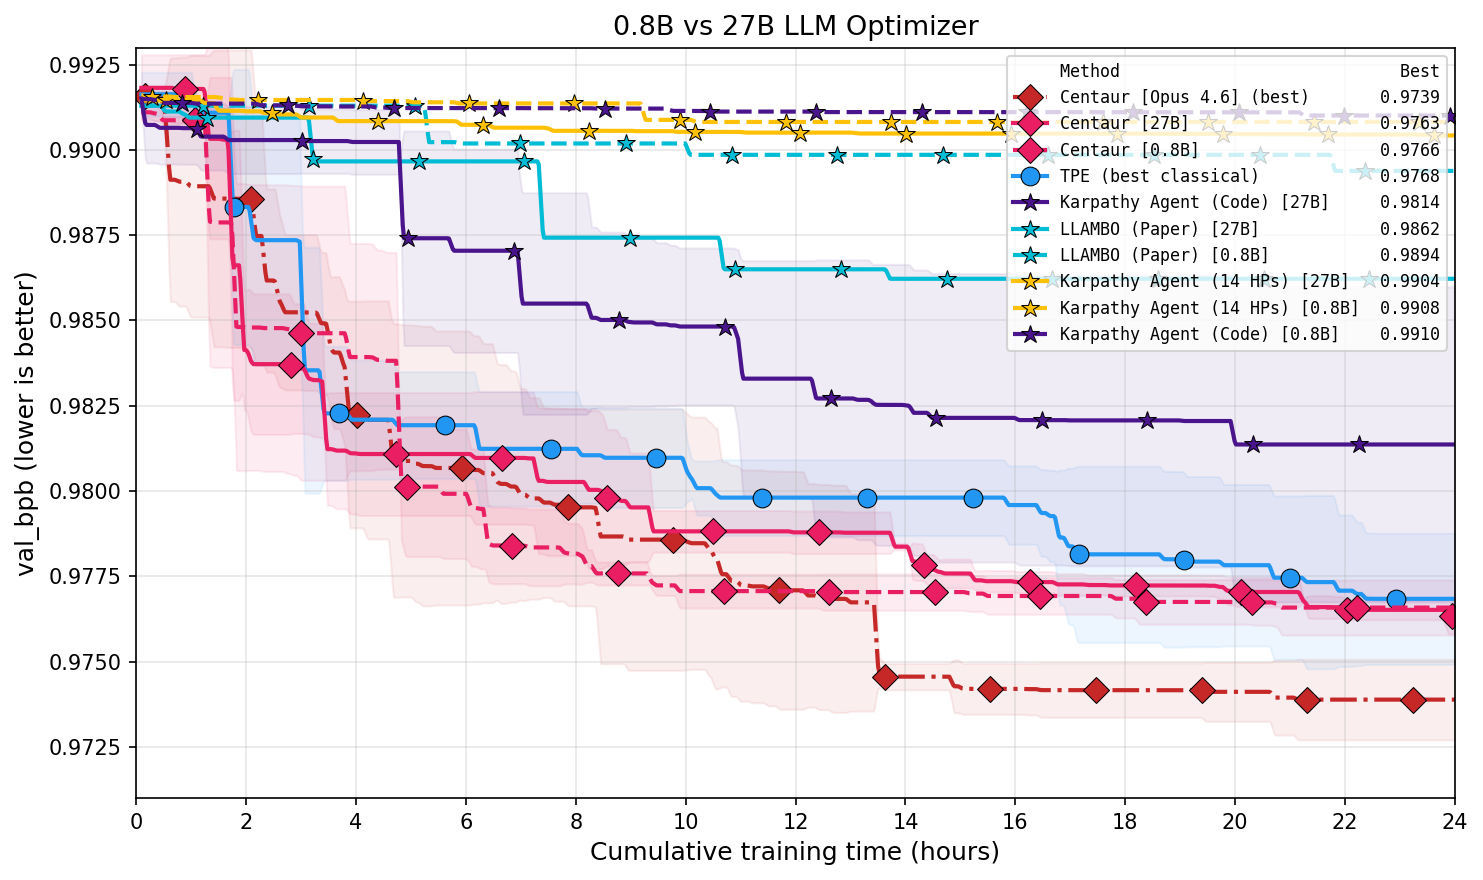
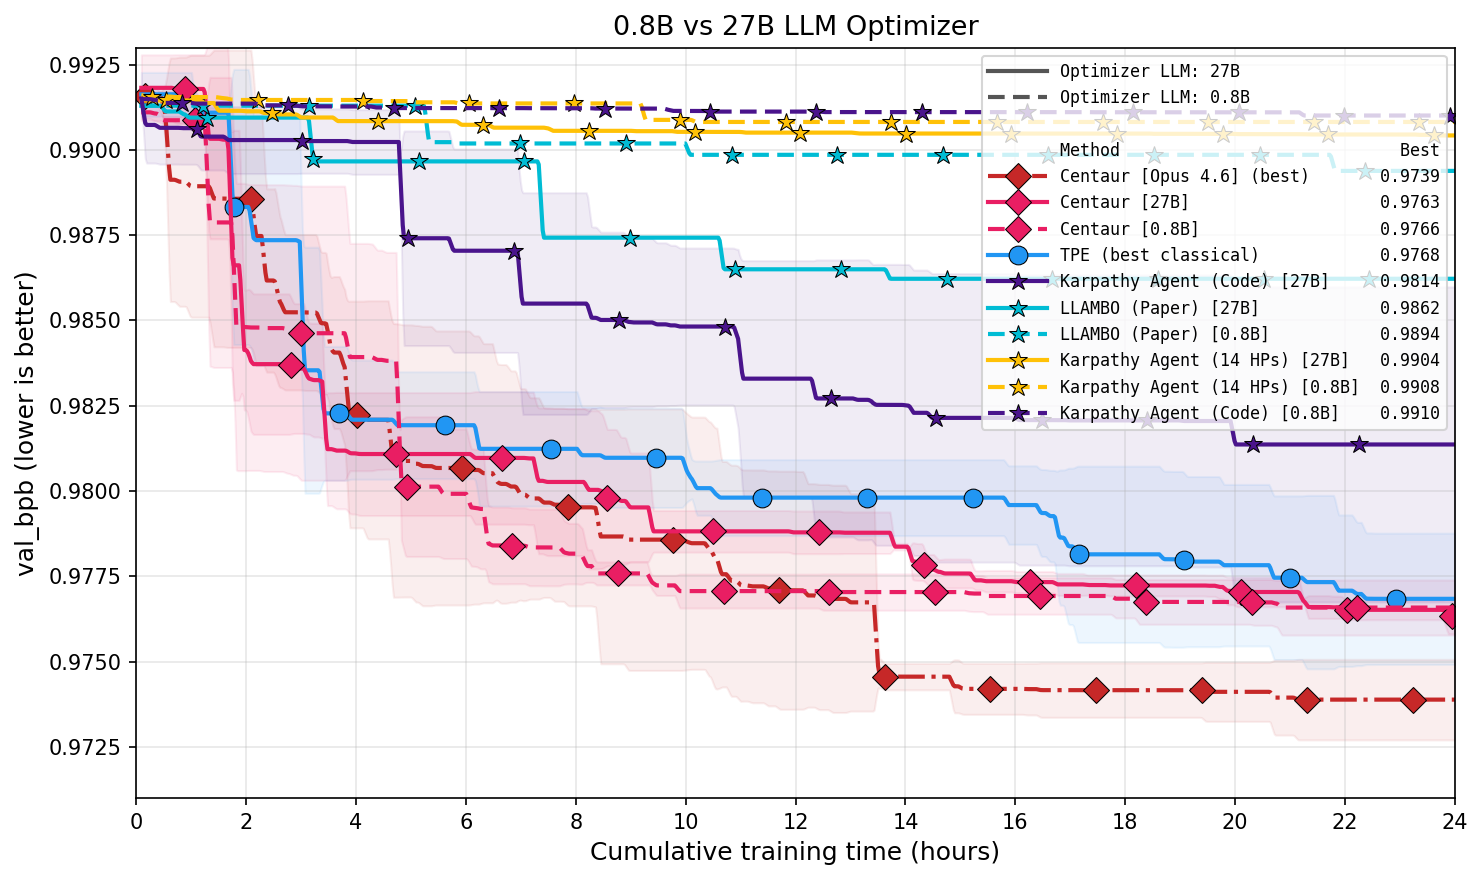
plot_convergence: Figure 3 legend visibly distinguishes 27B vs 0.8B
Two related changes in plot_convergence_walltime, surfaced via a new
show_linestyle_key=True flag set by plot_exp2_all_walltime:

- BACKENDS_ALL: 0.8B variants switch from "--" to (0,(4,2)) so the dash
  pattern repeats inside legend handles (matplotlib's default "--" was
  long enough that a single legend handle stroke rendered as solid).
- Legend: prepend two grey Line2D handles ("Optimizer LLM: 27B" solid /
  "Optimizer LLM: 0.8B" dashed) above the existing method-vs-best table,
  and bump handlelength to 3.5 so the dash pattern repeats visibly.

Regenerates assets/exp2_all_walltime.png; identical figure copied to the
paper repo's figures/exp2_all_walltime.png.

diff --git a/scripts/plot_convergence.py b/scripts/plot_convergence.py
@@ -74,6 +74,7 @@ def plot_convergence_walltime(
     ylim: tuple[float, float] = (0.973, 1.001),
     xlim_hours: tuple[float, float] | None = None,
     max_bands: int = 5,
+    show_linestyle_key: bool = False,
 ):
     """Plot convergence with x-axis = cumulative training wall-time (hours)."""
     fig, ax = plt.subplots(figsize=(10, 6))
@@ -153,14 +154,29 @@ def plot_convergence_walltime(
                 ax.fill_between(hrs, mean - std, mean + std, color=color, alpha=0.08)
 
         max_name_len = max(len(r[2]) for r in ranking)
+        handles: list = []
+        labels: list = []
+        if show_linestyle_key:
+            from matplotlib.lines import Line2D
+            grey = "#555555"
+            handles.append(Line2D([0], [0], color=grey, linewidth=2, linestyle="-"))
+            labels.append("Optimizer LLM: 27B")
+            handles.append(Line2D([0], [0], color=grey, linewidth=2, linestyle=DASH_08B))
+            labels.append("Optimizer LLM: 0.8B")
+            sep_handle, = ax.plot([], [], color="none", marker="", linestyle="none")
+            handles.append(sep_handle)
+            labels.append("")
         header_handle, = ax.plot([], [], color="none", marker="", linestyle="none")
-        handles = [header_handle]
-        labels = [f"{'Method'.ljust(max_name_len + 2)}{'Best':>6}"]
+        handles.append(header_handle)
+        labels.append(f"{'Method'.ljust(max_name_len + 2)}{'Best':>6}")
         for val, handle, name, *_ in ranking:
             labels.append(f"{name.ljust(max_name_len + 2)}{val:.4f}")
             handles.append(handle)
-        ax.legend(handles, labels, fontsize=8, loc="upper right",
-                  prop={"family": "monospace", "size": 8})
+        legend_kw = dict(fontsize=8, loc="upper right",
+                         prop={"family": "monospace", "size": 8})
+        if show_linestyle_key:
+            legend_kw["handlelength"] = 3.5
+        ax.legend(handles, labels, **legend_kw)
 
     fig.tight_layout()
     fig.savefig(output_path, dpi=150, bbox_inches="tight")
@@ -293,16 +309,20 @@ BACKENDS_27B = {
     "llambo_Qwen3_5_27B": {"label": "LLAMBO (Optuna)", "color": "#9C27B0", "linestyle": "-", "marker": "*"},
 }
 
+# 0.8B variants use a tight (0,(4,2)) dash pattern instead of "--" so the dashes
+# visibly repeat inside legend handles (matplotlib's default dash for "--" is too
+# long for a single legend handle stroke and renders as solid).
+DASH_08B = (0, (4, 2))
 BACKENDS_ALL = {
     "optuna": {"label": "TPE (best classical)", "color": "#2196F3", "linestyle": "-", "marker": "o"},
     "centaur_Qwen3_5_27B": {"label": "Centaur [27B]", "color": "#E91E63", "linestyle": "-", "marker": "D"},
-    "centaur_Qwen3_5_0_8B": {"label": "Centaur [0.8B]", "color": "#E91E63", "linestyle": "--", "marker": "D"},
+    "centaur_Qwen3_5_0_8B": {"label": "Centaur [0.8B]", "color": "#E91E63", "linestyle": DASH_08B, "marker": "D"},
     "llambo_original_Qwen3_5_27B": {"label": "LLAMBO (Paper) [27B]", "color": "#00BCD4", "linestyle": "-", "marker": "*"},
-    "llambo_original": {"label": "LLAMBO (Paper) [0.8B]", "color": "#00BCD4", "linestyle": "--", "marker": "*"},
+    "llambo_original": {"label": "LLAMBO (Paper) [0.8B]", "color": "#00BCD4", "linestyle": DASH_08B, "marker": "*"},
     "karpathy_agent_hps_Qwen3_5_27B": {"label": "Karpathy Agent (14 HPs) [27B]", "color": "#FFC107", "linestyle": "-", "marker": "*"},
-    "karpathy_agent_hps": {"label": "Karpathy Agent (14 HPs) [0.8B]", "color": "#FFC107", "linestyle": "--", "marker": "*"},
+    "karpathy_agent_hps": {"label": "Karpathy Agent (14 HPs) [0.8B]", "color": "#FFC107", "linestyle": DASH_08B, "marker": "*"},
     "karpathy_agent_Qwen3_5_27B": {"label": "Karpathy Agent (Code) [27B]", "color": "#4A148C", "linestyle": "-", "marker": "*"},
-    "karpathy_agent_Qwen3_5_0_8B": {"label": "Karpathy Agent (Code) [0.8B]", "color": "#4A148C", "linestyle": "--", "marker": "*"},
+    "karpathy_agent_Qwen3_5_0_8B": {"label": "Karpathy Agent (Code) [0.8B]", "color": "#4A148C", "linestyle": DASH_08B, "marker": "*"},
 }
 
 
@@ -359,6 +379,7 @@ def plot_exp2_all_walltime(results_dir: Path, output_path: Path):
         output_path,
         title="0.8B vs 27B LLM Optimizer",
         ylim=(0.971, 0.993),
+        show_linestyle_key=True,
     )
 
 
